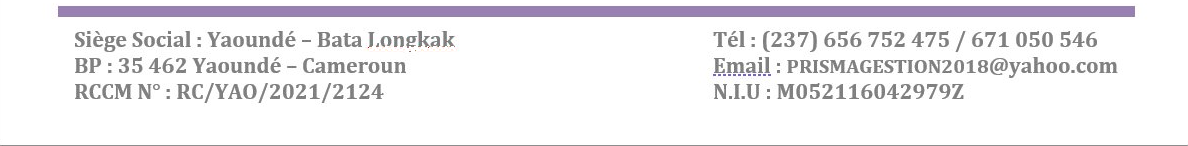
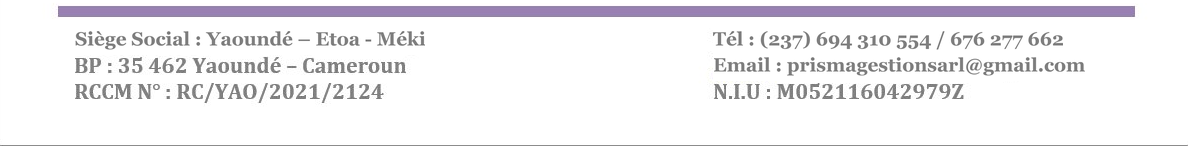
Corriger le pied de page officiel : siège, téléphone et e-mail
L'image assets/footer_mb.png portait encore l'ancien téléphone
(656 752 475 / 671 050 546) et l'ancienne adresse PRISMAGESTION2018@yahoo.com.
Elle figure en dernière page de chaque document du cabinet : c'était le dernier
endroit où les coordonnées périmées atteignaient un client.

Le siège devient « Yaoundé – Etoa - Méki » partout : image, compétence PDF,
cabinetConfig, SPEC_LOVABLE et prototype facturation/.

Le pied de page ne porte que deux numéros — le troisième ne tient pas dans la
largeur de la colonne droite. Les trois restent dans cabinetConfig, qui alimente
les documents de la console.

Régénération : docs/build_footer.py passe par WeasyPrint, dont les bibliothèques
natives ne s'installent pas simplement sous Windows. Un script de secours est
ajouté, docs/refaire_footer_sans_weasyprint.py, qui repeint ligne à ligne avec
Pillow. Deux réglages y sont calibrés sur l'image elle-même, et non déduits du
CSS :

- Georgia **grasse** pour tout, labels comme valeurs. Le CSS de build_footer.py
  ne met en gras que .lbl ; l'image montre l'inverse. Tracer en normal donnait
  des valeurs visiblement plus fines que leurs voisines.
- Gris 127 plutôt que le #262229 de la charte. L'image a été tant réduite que
  son texte plafonne à une intensité de 110 (moyenne 141) ; à la couleur
  nominale, les lignes réécrites étaient deux fois plus denses (moyenne 82).

Contrôle après coup : barre lavande, filet, lignes BP, RCCM et N.I.U identiques
[…]

Changed region(s): [[0.5918, 0.3836, 0.9655, 0.5205], [0.5918, 0.2192, 0.9343, 0.3562], [0.0623, 0.2192, 0.4049, 0.3562]]

diff --git a/facturation/clients.html b/facturation/clients.html
@@ -229,7 +229,7 @@
                 
                 <div>
                     <label class="block text-sm font-semibold text-gray-700 mb-2">Quartier *</label>
-                    <input type="text" id="clientQuartier" required oninput="syncPrincipaleLocation()" class="w-full border border-gray-300 rounded-lg px-4 py-2 focus:ring-2 focus:ring-blue-500" placeholder="Ex: Bata Longkak">
+                    <input type="text" id="clientQuartier" required oninput="syncPrincipaleLocation()" class="w-full border border-gray-300 rounded-lg px-4 py-2 focus:ring-2 focus:ring-blue-500" placeholder="Ex: Etoa - Méki">
                 </div>
 
                 <!-- Contact -->
@@ -2012,7 +2012,7 @@
                             <div class="clt-brand">${printClientValue(config.nom, 'PRISMA GESTION')}</div>
                             <div class="clt-brand-sub">Comptabilité · Finance · Fiscalité</div>
                             <div class="clt-cabinet">
-                                ${printClientValue(config.adresse, 'Yaoundé - Bata Longkak')}<br>
+                                ${printClientValue(config.adresse, 'Yaoundé - Etoa - Méki')}<br>
                                 Tél. : ${printClientValue(config.tel, '(237) 694 310 554 / 676 277 662 / 656 752 475')}
                                 ${config.niu ? `<br>NIU : ${printClientValue(config.niu)}` : ''}
                             </div>

diff --git a/facturation/facture-app.html b/facturation/facture-app.html
@@ -1322,7 +1322,7 @@
                         <h1 class="text-2xl font-bold text-blue-900">PRISMA GESTION</h1>
                         <p class="text-xs text-gray-600 uppercase tracking-widest">Comptabilité - Finance - Fiscalité</p>
                         <div class="text-xs mt-2 text-gray-700">
-                            <p>Siège Social : Yaoundé - Bata Longkak</p>
+                            <p>Siège Social : Yaoundé - Etoa - Méki</p>
                             <p>Tél : (237) 694 310 554 / 676 277 662 / 656 752 475</p>
                             <p>N.I.U : M052116042979Z</p>
                         </div>
@@ -1633,7 +1633,7 @@
                         <div class="fct-company-name">PRISMA GESTION</div>
                         <div class="fct-company-sub">Comptabilité · Finance · Fiscalité</div>
                         <div class="fct-company-info">
-                            Siège Social : Yaoundé - Bata Longkak<br>
+                            Siège Social : Yaoundé - Etoa - Méki<br>
                             Tél : (237) 694 310 554 / 676 277 662 / 656 752 475<br>
                             N.I.U : M052116042979Z
                         </div>

diff --git a/facturation/courrier-app.html b/facturation/courrier-app.html
@@ -1899,7 +1899,7 @@ Dans l'attente de votre confirmation, je vous prie d'agréer, Monsieur le Chef d
                             <h1 style="font-size: 1.5rem; font-weight: 700; color: #1e3a8a; margin: 0;">PRISMA GESTION</h1>
                             <p style="font-size: 0.78rem; color: #6b7280; text-transform: uppercase; letter-spacing: 0.17em; margin: 0.15rem 0 0;">Comptabilité - Finance - Fiscalité</p>
                             <div style="font-size: 0.88rem; line-height: 1.55; margin-top: 0.65rem; color: #4b5563;">
-                                <p style="margin: 0;">Siège Social : Yaoundé - Bata Longkak</p>
+                                <p style="margin: 0;">Siège Social : Yaoundé - Etoa - Méki</p>
                                 <p style="margin: 0;">Tél : (237) 694 310 554 / 676 277 662 / 656 752 475</p>
                                 <p style="margin: 0;">N.I.U : M052116042979Z</p>
                             </div>

diff --git a/facturation/parametres-cabinet.html b/facturation/parametres-cabinet.html
@@ -71,7 +71,7 @@
                     </div>
                     <div>
                         <label class="block text-sm font-semibold text-gray-700 mb-2">Adresse</label>
-                        <input type="text" id="cabinetAdresse" value="Yaoundé - Bata Longkak" class="w-full border border-gray-300 rounded-lg px-4 py-2 focus:ring-2 focus:ring-blue-500">
+                        <input type="text" id="cabinetAdresse" value="Yaoundé - Etoa - Méki" class="w-full border border-gray-300 rounded-lg px-4 py-2 focus:ring-2 focus:ring-blue-500">
                     </div>
                     <div>
                         <label class="block text-sm font-semibold text-gray-700 mb-2">Téléphone</label>

diff --git a/facturation/recu-app.html b/facturation/recu-app.html
@@ -655,7 +655,7 @@
                         <div>
                             <p class="font-bold text-blue-900 text-lg">PRISMA GESTION</p>
                             <p class="text-xs text-gray-600">Comptabilité - Finance - Fiscalité</p>
-                            <p class="text-xs text-gray-600 mt-2">Yaoundé - Bata Longkak</p>
+                            <p class="text-xs text-gray-600 mt-2">Yaoundé - Etoa - Méki</p>
                             <p class="text-xs text-gray-600">Tél : (237) 694 310 554 / 676 277 662 / 656 752 475</p>
                             <p class="text-xs text-gray-600">N.I.U : M052116042979Z</p>
                         </div>

diff --git a/facturation/avance-app.html b/facturation/avance-app.html
@@ -645,7 +645,7 @@
                         <h1 class="text-xl font-bold text-blue-900">PRISMA GESTION</h1>
                         <p class="text-gray-600 uppercase tracking-widest" style="font-size: 13pt;">Comptabilité - Finance - Fiscalité</p>
                         <div class="mt-1 text-gray-700" style="font-size: 13pt;">
-                            <p>Siège Social : Yaoundé - Bata Longkak</p>
+                            <p>Siège Social : Yaoundé - Etoa - Méki</p>
                             <p>Tél : (237) 694 310 554 / 676 277 662 / 656 752 475</p>
                             <p>N.I.U : M052116042979Z</p>
                         </div>

diff --git a/facturation/devis.html b/facturation/devis.html
@@ -1450,7 +1450,7 @@
                         <h1 class="text-xl font-bold text-blue-900">PRISMA GESTION</h1>
                         <p class="text-xs text-gray-600 uppercase tracking-widest">Comptabilité - Finance - Fiscalité</p>
                         <div class="text-xs mt-1 text-gray-700">
-                            <p>Siège Social : Yaoundé - Bata Longkak</p>
+                            <p>Siège Social : Yaoundé - Etoa - Méki</p>
                             <p>Tél : (237) 694 310 554 / 676 277 662 / 656 752 475</p>
                             <p>N.I.U : M052116042979Z</p>
                         </div>

diff --git a/facturation/note-app.html b/facturation/note-app.html
@@ -619,7 +619,7 @@
                         <h1 class="text-2xl text-blue-900">PRISMA GESTION</h1>
                         <p class="text-xs text-gray-600 uppercase tracking-widest">Comptabilité - Finance - Fiscalité</p>
                         <div class="text-sm mt-2 text-gray-700">
-                            <p>Siège Social : Yaoundé - Bata Longkak</p>
+                            <p>Siège Social : Yaoundé - Etoa - Méki</p>
                             <p>Tél : (237) 694 310 554 / 676 277 662 / 656 752 475</p>
                             <p>N.I.U : M052116042979Z</p>
                         </div>

diff --git a/facturation/index.html b/facturation/index.html
@@ -327,7 +327,7 @@
         <div class="max-w-6xl mx-auto mt-8">
             <div class="bg-white rounded-lg shadow-xl p-4 text-center text-sm text-gray-600">
                 <p>&copy; 2026 PRISMA GESTION - Tous droits réservés</p>
-                <p class="text-xs mt-1">Yaoundé - Bata Longkak | Tél : (237) 694 310 554 / 676 277 662 / 656 752 475</p>
+                <p class="text-xs mt-1">Yaoundé - Etoa - Méki | Tél : (237) 694 310 554 / 676 277 662 / 656 752 475</p>
             </div>
         </div>
     </div>

diff --git a/src/modules/gestion/lib/spec/cabinetConfig.ts b/src/modules/gestion/lib/spec/cabinetConfig.ts
@@ -33,7 +33,7 @@ export interface CabinetConfig {
 export const DEFAULT_CABINET_CONFIG: CabinetConfig = {
   nomCabinet: 'PRISMA GESTION',
   slogan: 'Comptabilité - Finance - Fiscalité',
-  siege: 'Yaoundé - Bata Longkak',
+  siege: 'Yaoundé - Etoa - Méki',
   telephone: '(237) 694 310 554 / 676 277 662 / 656 752 475',
   niu: 'M052116042979Z',
   signataireNom: 'OBIANG TIME Nathan',

diff --git a/docs/refaire_footer_sans_weasyprint.py b/docs/refaire_footer_sans_weasyprint.py
@@ -1,0 +1,64 @@
+# -*- coding: utf-8 -*-
+"""Reecrit des lignes du pied de page officiel PRISMA GESTION (footer_mb.png).
+
+Le script d'origine (docs/build_footer.py) passe par WeasyPrint, dont les
+bibliotheques natives ne s'installent pas simplement sous Windows. On repeint
+donc ligne par ligne, en laissant le reste de l'image intact au pixel pres.
+
+Deux reglages ont ete calibres sur l'image elle-meme, et non deduits du CSS :
+
+- Police : Georgia **grasse** pour tout, labels comme valeurs. Le CSS de
+  build_footer.py ne met en gras que `.lbl`, mais l'image montre l'inverse.
+  Taille 19, calibree sur les lignes non modifiees (ecart max 11 px).
+- Couleur : gris 127 et non le #262229 de la charte. L'image a ete tant
+  reduite que son texte plafonne a une intensite de 110 (moyenne 141) ;
+  tracer a la couleur nominale donnait des lignes deux fois plus denses que
+  leurs voisines, ce qui se voyait a l'oeil.
+
+Usage : python refaire_footer.py source.png destination.png
+"""
+import sys
+from PIL import Image, ImageDraw, ImageFont
+
+SRC, DST = sys.argv[1], sys.argv[2]
+
+GB = 'C:/Windows/Fonts/georgiab.ttf'
+TAILLE = 19
+ECH = 4                    # surechantillonnage, pour retrouver le meme lisse
+COULEUR = (127, 127, 127)
+
+# (x de la colonne, y du haut des majuscules, x max a effacer, texte)
+# Les bornes d'effacement s'arretent avant la colonne voisine et avant la
+# ligne suivante : la zone effacee ne depasse jamais sur une ligne conservee.
+LIGNES = [
+    (75,  31, 700,  'Siège Social : Yaoundé – Etoa - Méki'),
+    (713, 31, 1188, 'Tél : (237) 694 310 554 / 676 277 662'),
+    (713, 57, 1188, 'Email : prismagestionsarl@gmail.com'),
+]
+
+im = Image.open(SRC).convert('RGB')
+L, H = im.size
+police = ImageFont.truetype(GB, TAILLE * ECH)
+dessin = ImageDraw.Draw(im)
+
+for x_col, haut_cible, x_max, texte in LIGNES:
+    # 1) Effacer la ligne : de 5 px au-dessus du haut des majuscules jusqu'a
+    #    3 px avant le haut de la ligne suivante (les lignes sont espacees
+    #    de 26 px).
+    dessin.rectangle([x_col, haut_cible - 5, x_max, haut_cible + 23], fill=(255, 255, 255))
+
+    # 2) Tracer a l'echelle ECH puis reduire.
+    largeur, hauteur = (x_max - x_col) * ECH, 40 * ECH
+    tuile = Image.new('RGB', (largeur, hauteur), (255, 255, 255))
+    ImageDraw.Draw(tuile).text((0, 8 * ECH), texte, font=police, fill=COULEUR)
+    tuile = tuile.resize((largeur // ECH, hauteur // ECH), Image.LANCZOS)
+
+    # 3) Ne coller que la zone reellement occupee : coller la tuile entiere
+    #    ecraserait la ligne suivante.
+    bbox = tuile.convert('L').point(lambda p: 255 if p < 200 else 0).getbbox()
+    if not bbox:
+        raise SystemExit('Texte introuvable : police absente ?')
+    im.paste(tuile.crop(bbox), (x_col + bbox[0], haut_cible))
+
+im.save(DST)
+print('Ecrit :', DST, im.size)

diff --git a/docs/build_footer.py b/docs/build_footer.py
@@ -31,12 +31,14 @@ html = """
 <div class="bar"></div>
 <div class="wrap">
   <div>
-    <div><span class="lbl">Si&egrave;ge Social :</span> Yaound&eacute; &ndash; Bata Longkak</div>
+    <div><span class="lbl">Si&egrave;ge Social :</span> Yaound&eacute; &ndash; Etoa - M&eacute;ki</div>
     <div><span class="lbl">BP :</span> 35 462 Yaound&eacute; &ndash; Cameroun</div>
     <div><span class="lbl">RCCM N&deg; :</span> RC/YAO/2021/2124</div>
   </div>
   <div>
-    <div><span class="lbl">T&eacute;l :</span> (237) 694 310 554 / 676 277 662 / 656 752 475</div>
+    <!-- Deux numeros seulement : la colonne droite du pied de page ne peut pas
+         en accueillir un troisieme sans deborder de la largeur de l'image. -->
+    <div><span class="lbl">T&eacute;l :</span> (237) 694 310 554 / 676 277 662</div>
     <div><span class="lbl">Email :</span> prismagestionsarl@gmail.com</div>
     <div><span class="lbl">N.I.U :</span> M052116042979Z</div>
   </div>
